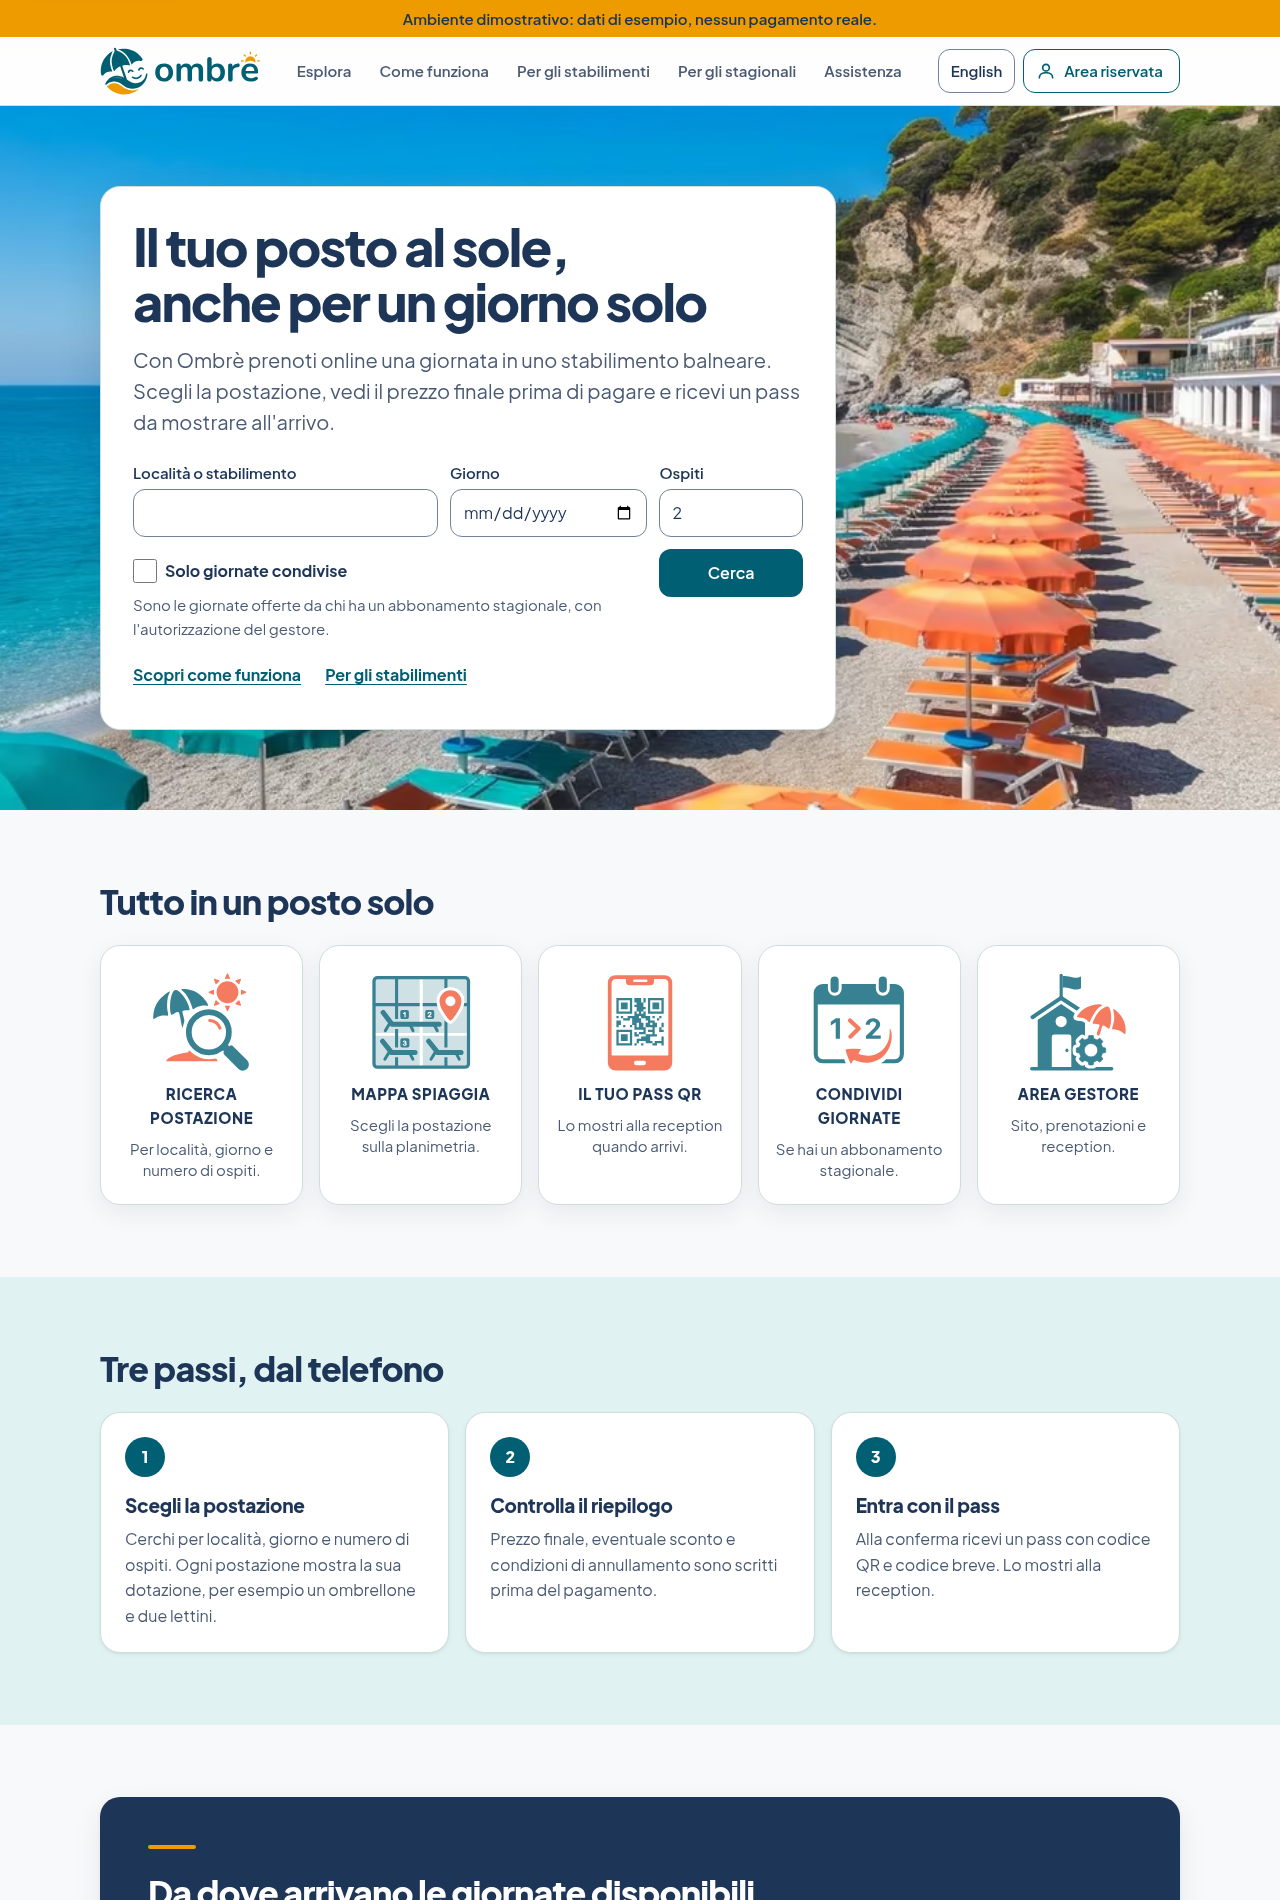
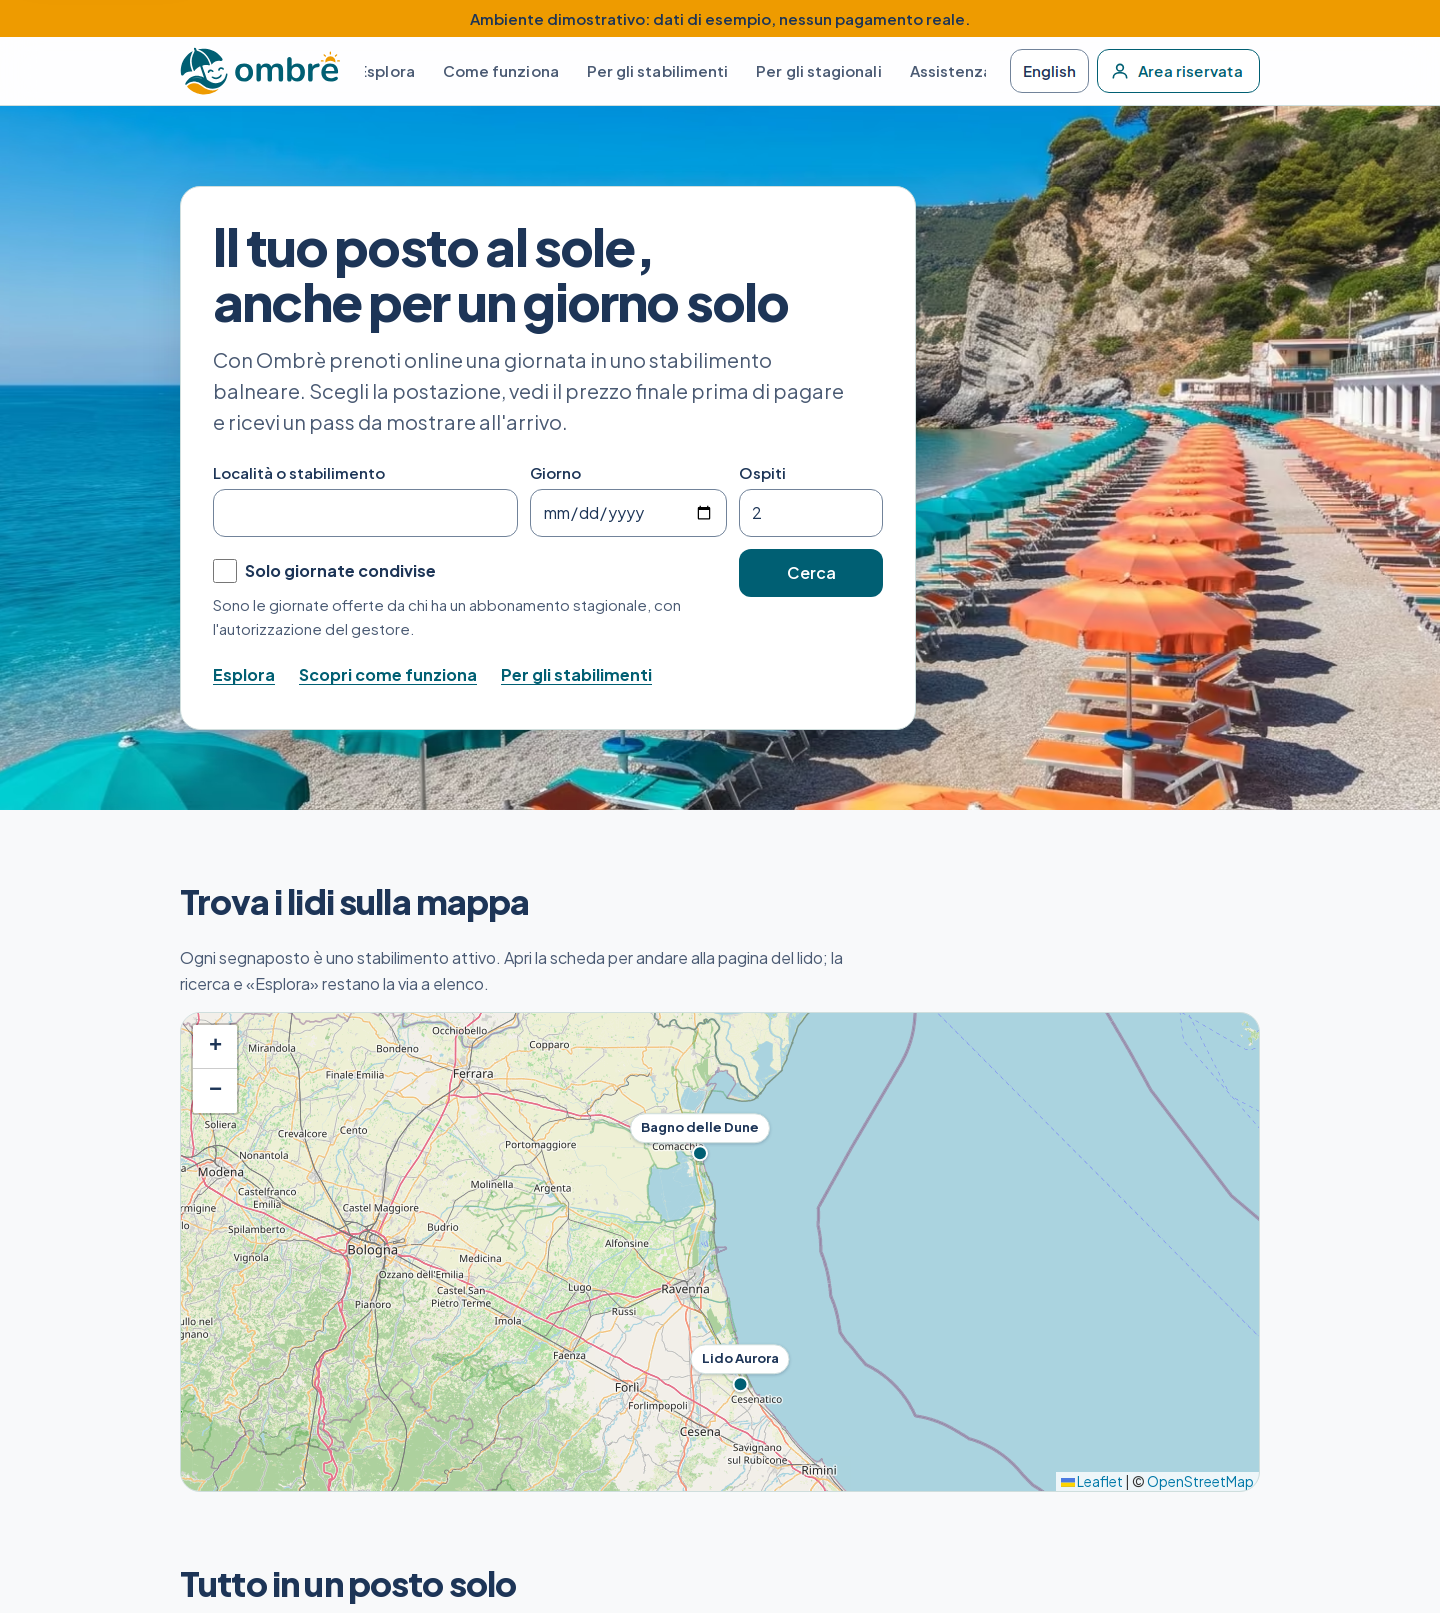
Ombrè: collaudo fumo allineato a mappa e zone, schermate aggiornate
Due attese di smoke-flow superate dall'interfaccia nuova: oltre alla
ricerca la home ha l'invito a «Esplora» nel riquadro mappa (ora contato a
parte, con la verifica che l'invito stia nel riquadro e che la ricerca
preceda la mappa nel DOM) e la barra della scelta nomina la postazione
con zona e fila in minuscolo. Schermate rifatte sull'ambiente di
collaudo: home e «Esplora» con la mappa OpenStreetMap carica, nuova
pagina «Spiaggia» su Lido Aurora (desktop e telefono) e pannello della
posizione in «Gestione».

diff --git a/scripts/smoke-flow.ts b/scripts/smoke-flow.ts
@@ -42,7 +42,10 @@ const exploreForm = /<form class="portal-search"[^>]*>[^]*?<\/form>/.exec((await
 const firstDay = /name="day"[^>]*min="(\d{4}-\d{2}-\d{2})"|min="(\d{4}-\d{2}-\d{2})"[^>]*name="day"/.exec(exploreForm);
 const romeToday = new Intl.DateTimeFormat('en-CA', { timeZone: 'Europe/Rome' }).format(new Date());
 check((firstDay?.[1] ?? firstDay?.[2]) === romeToday, `explore: the search does not start from today (${firstDay?.[1] ?? firstDay?.[2]})`);
-check(count(form, /type="submit"/g) === 1 && count(home.html, /class="button[ "]/g) === 1, 'home: expected exactly one main button, the search');
+// Besides the search, the only other button is the invitation to Explore inside the map box.
+const mapBox = /<div class="portal-map__invite">[^]*?<\/div>/.exec(home.html)?.[0] ?? '';
+check(count(form, /type="submit"/g) === 1 && count(home.html.replace(mapBox, ''), /class="button[ "]/g) === 1, 'home: expected exactly one main button, the search');
+check(mapBox.includes('href="/esplora"') && home.html.indexOf('class="portal-search"') < home.html.indexOf('class="portal-map'), 'home: the map box has no invitation to Explore after the search form');
 check(/action="\/en\/explore#risultati"/.test((await page('/en')).html), 'english home: the search does not open the English explore page');
 check(/action="\/esplora#risultati"/.test(exploreForm), 'explore: a new search does not land on the results');
 
@@ -102,7 +105,8 @@ const selected = await page(selectHref);
 const bar = /<aside class="plan-bar"[^>]*>[^]*?<\/aside>/.exec(selected.html)?.[0] ?? '';
 const bookHref = /href="(\/bagni\/bagno-delle-dune\/prenota\?spot=[0-9a-f-]{36}&day=\d{4}-\d{2}-\d{2})"/.exec(bar)?.[1] ?? '';
 check(bookHref === `${beach}/prenota?spot=${spotId}&day=${day}`, `choice: the bar does not lead to the summary of the chosen spot (${bookHref})`);
-check(bar.includes('30,00') && bar.includes('Fila ') && bar.includes('ombrellone') && count(bar, /<a /g) === 1, 'choice: the bar does not show row, equipment and price with one button');
+// The title of the bar names the spot with its zone and row: "Postazione A02, ombrelloni, fila 1".
+check(bar.includes('30,00') && /fila \d/.test(bar) && bar.includes('ombrellone') && count(bar, /<a /g) === 1, 'choice: the bar does not show row, equipment and price with one button');
 check(count(selected.html, /<a class="plan-spot[^"]*plan-spot--selected"[^>]*aria-current="true"/g) === 1, 'choice: the chosen spot is not marked on the map');
 check(selected.html.includes('Hai scelto la postazione') && selected.html.includes('href="#scelta"'), 'choice: the choice is not stated in words');
 check(!(await page(`${beach}?day=${day}&spot=non-valido`)).html.includes('class="plan-bar"'), 'choice: an invalid spot opened the bar');
